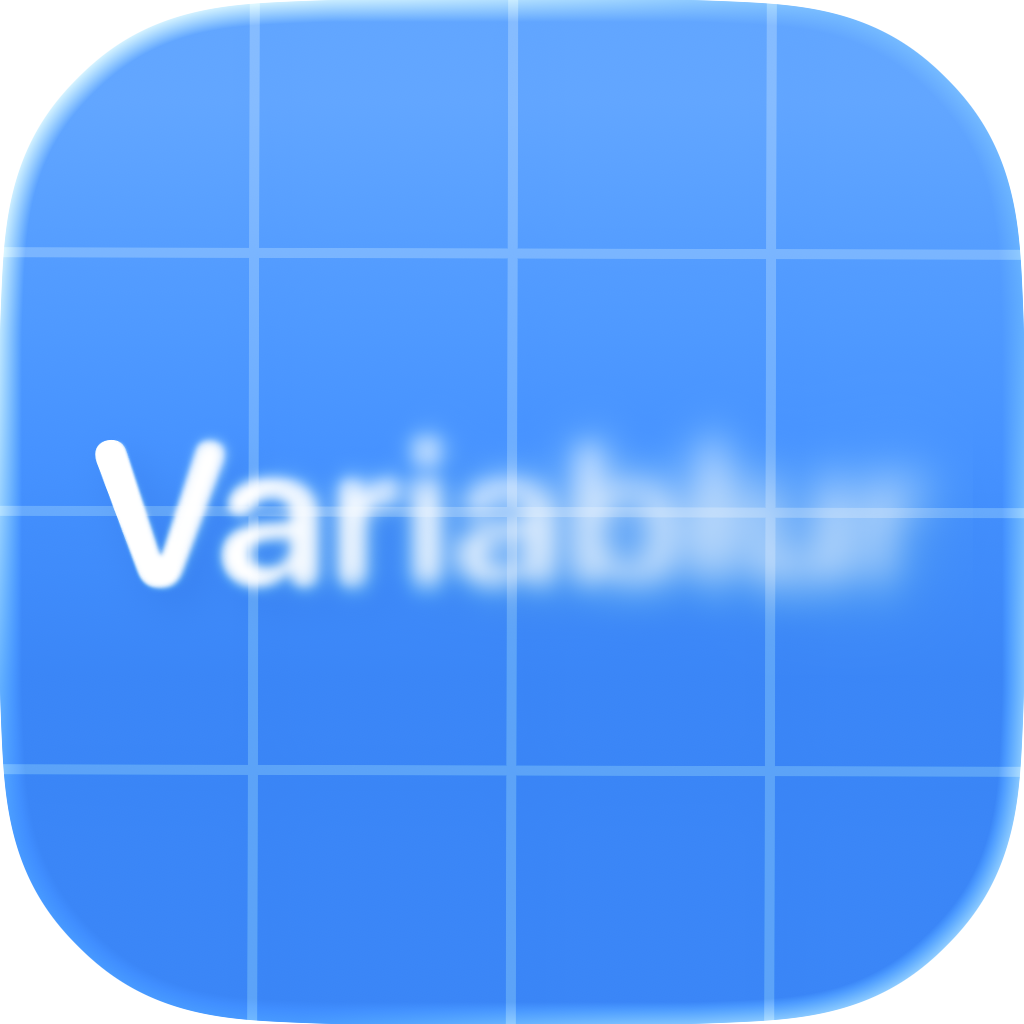
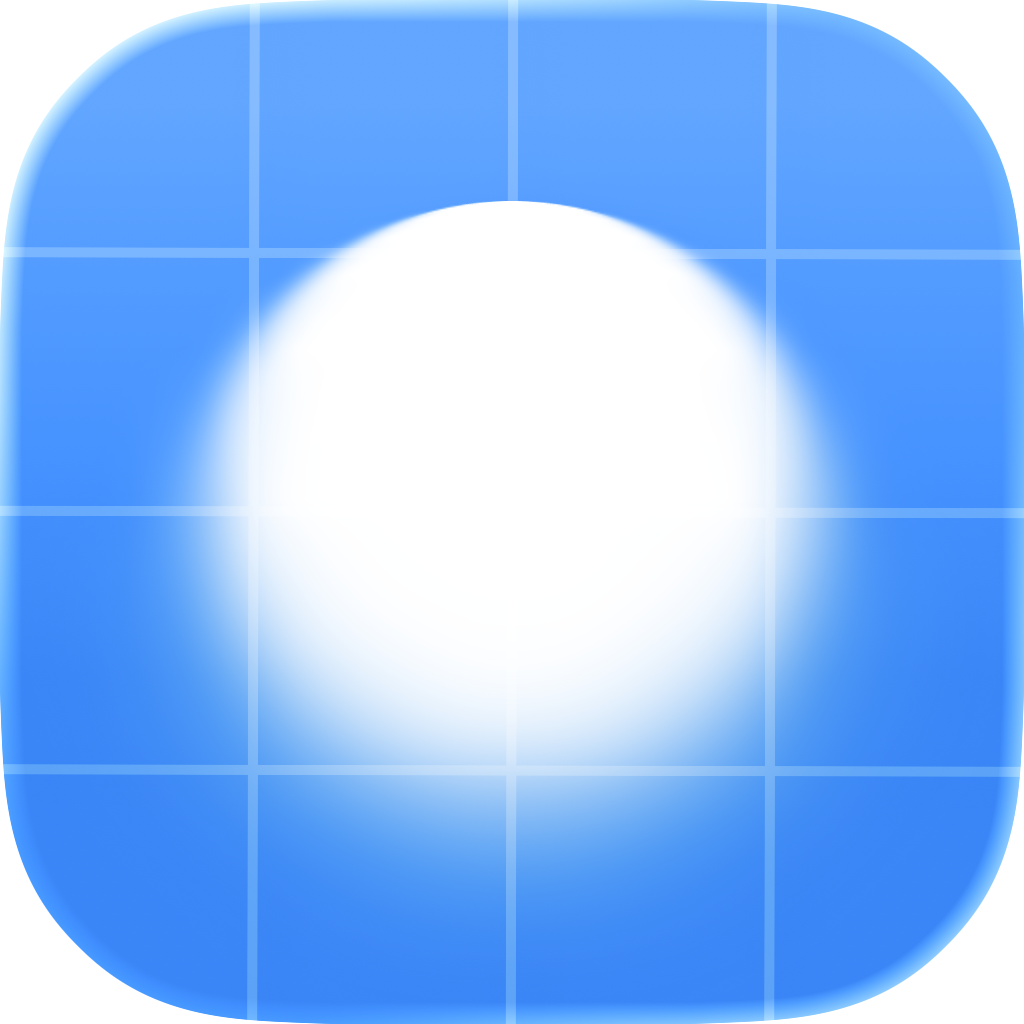
Update README with package overview and usage examples

diff --git a/README.md b/README.md
@@ -5,3 +5,136 @@
     Vary blur with ease.
   </p>
 </div>
+
+Variablur is a Swift package for applying SwiftUI blur effects whose strength
+changes across a view.
+
+Use it to add edge fades, paired horizontal or vertical blurs, perimeter blur,
+and custom directional blur overlays without building mask images by hand.
+
+## Overview
+
+Variablur adds a SwiftUI `View.blur(_:variation:ignoreSafeArea:)` modifier. You
+choose the strongest blur radius, then describe where the blur appears with a
+`Variation` and shape its transition with a `Curve`.
+
+```swift
+import SwiftUI
+import Variablur
+
+struct ContentView: View {
+    var body: some View {
+        ScrollView {
+            content
+        }
+        .blur(18, variation: .bottom(.easeOut, height: 96))
+    }
+}
+```
+
+`Variation` supports common placements:
+
+```swift
+Image("Backdrop")
+    .blur(16, variation: .vertical(.easeInOut, height: 120))
+```
+
+It also supports custom start and end points:
+
+```swift
+content
+    .blur(
+        20,
+        variation: .bottom(.easeOut, height: 140)
+            .from(.bottomTrailing)
+            .to(.topLeading)
+    )
+```
+
+## Requirements
+
+- Swift 6.3 or later
+- iOS 14.0 or later
+- macOS 11.0 or later
+
+## Installation
+
+Add Variablur to a Swift package with Swift Package Manager:
+
+```swift
+dependencies: [
+    .package(url: "https://github.com/whatsinlab/variablur.git", branch: "main"),
+]
+```
+
+Then add `Variablur` to the target that uses it:
+
+```swift
+.target(
+    name: "YourTarget",
+    dependencies: [
+        "Variablur",
+    ]
+)
+```
+
+You can also add the package in Xcode with **File > Add Package
+Dependencies...** and the repository URL.
+
+## Usage
+
+### Edge Blur
+
+Use a directional variation to fade one side of a view.
+
+```swift
+List(items) { item in
+    Row(item)
+}
+.blur(24, variation: .top(.sineOut, height: 80))
+```
+
+### Axis Blur
+
+Use paired axis variations to blur both sides of a view.
+
+```swift
+TimelineView(.animation) { _ in
+    CanvasView()
+        .blur(12, variation: .horizontal(.easeInOut, height: 64))
+}
+```
+
+### Perimeter Blur
+
+Use `.all` when the blur should follow the view perimeter.
+
+```swift
+RoundedRectangle(cornerRadius: 28)
+    .fill(.thinMaterial)
+    .blur(10, variation: .all(.easeInOut))
+```
+
+### Custom Curves
+
+Use one of the built-in easing curves or provide cubic Bezier control points.
+
+```swift
+let curve = Variablur.Curve(0.2, 0.0, 0.0, 1.0)
+
+content
+    .blur(22, variation: .bottom(curve, height: 120))
+```
+
+On newer platforms, Variablur can also sample SwiftUI `UnitCurve` values:
+
+```swift
+if #available(iOS 17.0, macOS 14.0, *) {
+    content
+        .blur(22, variation: .bottom(.init(.snappy), height: 120))
+}
+```
+
+## License
+
+Variablur is available under the MIT license. See `LICENSE` for details.